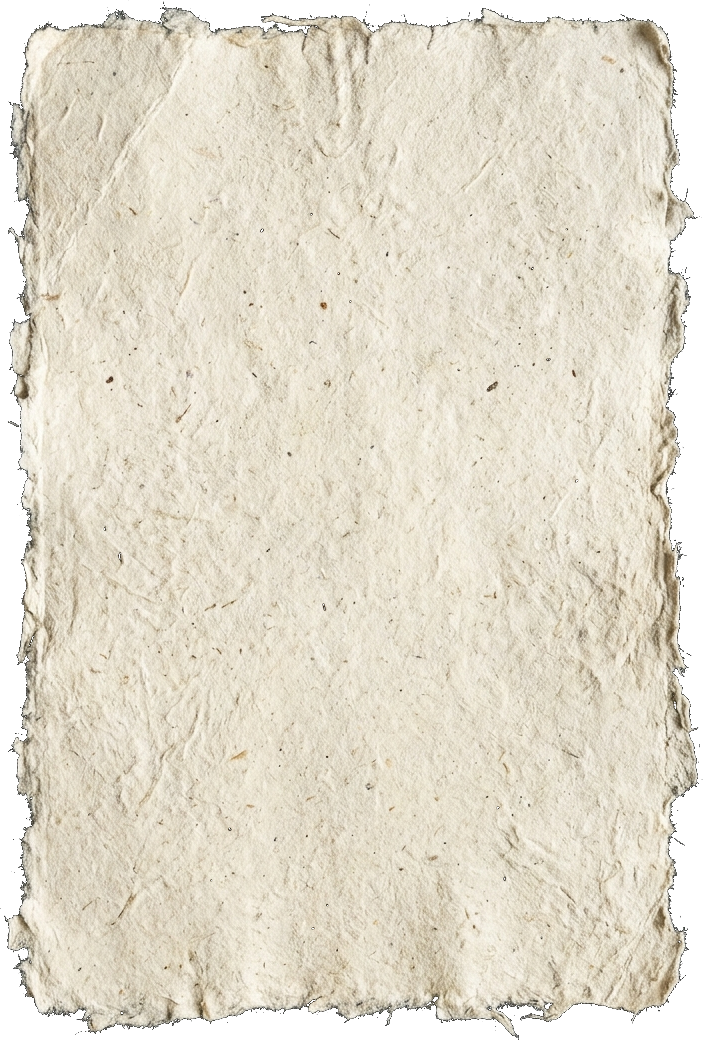
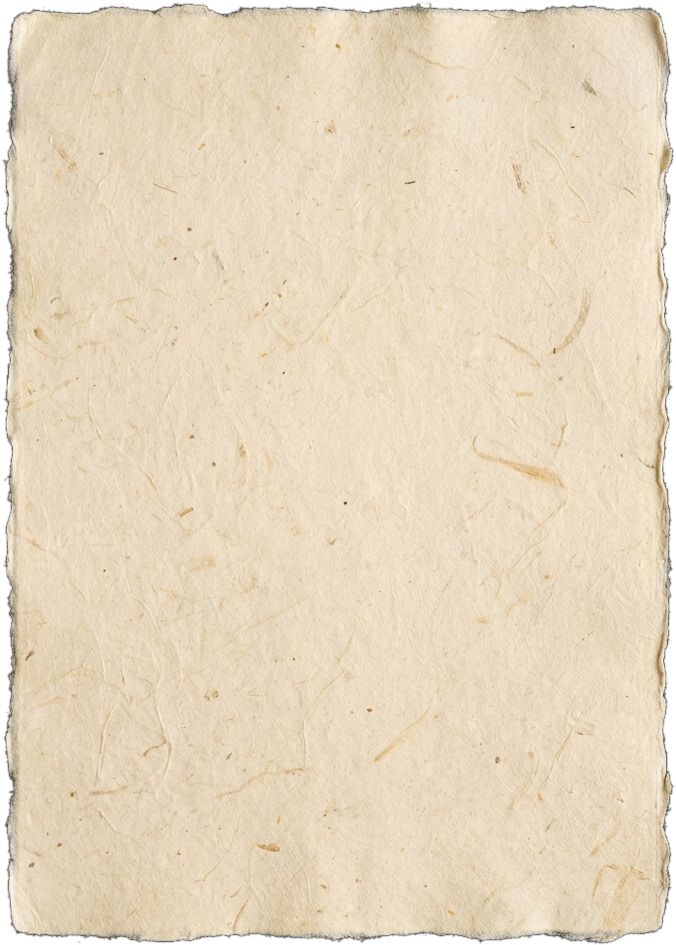
feat(gallery): add Chim Lac Hong motif, remove Viet Phuc badge, and update paper with natural deckled edges and wider margins

diff --git a/src/screens/LookbookScreen.tsx b/src/screens/LookbookScreen.tsx
@@ -19,22 +19,6 @@ import {
 } from 'lucide-react';
 import { getPieceAlignment, getAlignmentStyle } from '../data/pieceAlignments';
 
-/**
- * Imperial Vermilion Red Seal Stamp with double gold border
- */
-const ImperialRedSeal: React.FC<{ className?: string }> = ({ className = 'w-10 h-16' }) => (
-  <div className={`relative flex items-center justify-center bg-gradient-to-b from-[#8B1E1E] via-[#751616] to-[#590e0e] border-[2px] border-[#C69B56] shadow-[0_6px_18px_rgba(139,30,30,0.65)] p-0.5 rounded-none flex-shrink-0 select-none ${className}`}>
-    <div className="w-full h-full border border-[#C69B56]/70 flex flex-col items-center justify-center py-0.5 px-1 bg-black/10">
-      <span className="text-[#F7F4EE] font-serif font-black text-[10px] sm:text-xs leading-tight tracking-widest uppercase">
-        Việt
-      </span>
-      <span className="w-3.5 h-[1px] bg-[#C69B56]/80 my-0.5" />
-      <span className="text-[#F7F4EE] font-serif font-black text-[10px] sm:text-xs leading-tight tracking-widest uppercase">
-        Phục
-      </span>
-    </div>
-  </div>
-);
 
 /**
  * Traditional corner watermark for cards (cherry blossom, cloud, harvest moon, seal)
@@ -246,19 +230,19 @@ const ScrapbookPostcardCard: React.FC<{
           )}
         </div>
 
-        {/* The Authentic Handmade Giấy Dó Paper Canvas using generated torn paper asset */}
-        <div className="relative w-full p-3 sm:p-3.5 pb-4 flex flex-col gap-2 select-none">
-          {/* Real Torn Paper Texture Asset */}
+        {/* The Authentic Handmade Giấy Dó Paper Canvas using delicate deckled paper asset */}
+        <div className="relative w-full px-5 sm:px-6 pt-5 sm:pt-5.5 pb-5 sm:pb-6 flex flex-col gap-2.5 select-none">
+          {/* Real Deckled Paper Texture Asset */}
           <img
-            src="/assets/decorations/torn-paper.png"
-            alt="Giấy Dó xé thủ công"
-            className="absolute inset-0 w-full h-full object-fill pointer-events-none select-none drop-shadow-[0_4px_12px_rgba(0,0,0,0.35)]"
+            src="/assets/decorations/deckled-paper.png"
+            alt="Giấy Dó viền thô tự nhiên"
+            className="absolute inset-0 w-full h-full object-fill pointer-events-none select-none drop-shadow-[0_4px_16px_rgba(0,0,0,0.4)]"
           />
 
-          {/* Inner Content Layer (above paper) */}
-          <div className="relative z-10 flex flex-col gap-2">
-            {/* Inner Photo Frame (Standard 9:16 aspect ratio) */}
-            <div className="relative w-full aspect-[9/16] overflow-hidden bg-black/95 border border-[#2d2216]/60 rounded-xs shadow-inner mt-1">
+          {/* Inner Content Layer (comfortably centered inside deckled paper borders) */}
+          <div className="relative z-10 flex flex-col gap-2.5">
+            {/* Inner Photo Frame (Standard 9:16 aspect ratio with clean border) */}
+            <div className="relative w-full aspect-[9/16] overflow-hidden bg-black/95 border border-[#2d2216]/50 rounded-[2px] shadow-sm">
               {hasAIImage ? (
                 <div className="relative w-full h-full overflow-hidden">
                   <img
@@ -273,11 +257,11 @@ const ScrapbookPostcardCard: React.FC<{
               )}
             </div>
 
-            {/* Bottom Card Footer Area (Inside the Paper) */}
-            <div className="flex flex-col gap-1.5 px-1 pt-0.5">
+            {/* Bottom Card Footer Area (Spaced generously away from paper deckled edges) */}
+            <div className="flex flex-col gap-2 px-1 pt-1">
               {/* Row 1: Timestamp & Favorite Heart Toggle */}
               <div className="flex items-center justify-between">
-                <span className="text-[10px] sm:text-[11px] text-[#4d3c2b] font-mono tracking-wider font-bold">
+                <span className="text-[11px] sm:text-xs text-[#4a3928] font-mono tracking-wider font-bold">
                   {formatCreationDateTime(outfit.createdAt)}
                 </span>
 
@@ -456,31 +440,26 @@ export const LookbookScreen: React.FC<LookbookScreenProps> = ({
         </div>
       )}
 
-      {/* 2. ARTISTIC EDITORIAL HERO HEADER (Outfit placed cleanly below Bộ Sưu Tập) */}
+      {/* 2. ARTISTIC EDITORIAL HERO HEADER (Title without badge, Chim Lac Hong motif next to Outfit) */}
       <div className="relative z-10 w-full px-4 sm:px-8 lg:px-12 pt-7 pb-3">
         <div className="flex flex-col md:flex-row md:items-center justify-between gap-6">
-          {/* Left: Imperial Seal + Title "Bộ Sưu Tập" over "Outfit" + Cloud image asset */}
-          <div className="flex items-center gap-4 sm:gap-5">
-            {/* Vermilion Imperial Red Seal */}
-            <ImperialRedSeal className="w-10 h-16 sm:w-11 sm:h-18" />
+          {/* Left: Title "Bộ Sưu Tập" over "Outfit" + Chim Lạc Hồng Motif */}
+          <div className="flex flex-col">
+            {/* Line 1: Bộ Sưu Tập */}
+            <h1 className="font-serif font-black text-2xl sm:text-3xl lg:text-4xl text-silk-ivory tracking-tight drop-shadow-md leading-none">
+              Bộ Sưu Tập
+            </h1>
 
-            <div className="flex flex-col">
-              {/* Line 1: Bộ Sưu Tập */}
-              <h1 className="font-serif font-black text-2xl sm:text-3xl lg:text-4xl text-silk-ivory tracking-tight drop-shadow-md leading-none">
-                Bộ Sưu Tập
-              </h1>
-
-              {/* Line 2: Outfit + Golden Cloud Asset */}
-              <div className="flex items-center gap-3.5 mt-2">
-                <span className="font-calligraphy text-4xl sm:text-5xl lg:text-6xl text-[#e8c87b] -rotate-2 font-bold drop-shadow-[0_4px_14px_rgba(232,200,123,0.35)] leading-none select-none">
-                  Outfit
-                </span>
-                <img
-                  src="/assets/decorations/golden-cloud.png"
-                  alt="Vân mây cổ phong"
-                  className="h-8 sm:h-10 w-auto object-contain filter drop-shadow-[0_2px_10px_rgba(198,155,86,0.6)] select-none pointer-events-none inline-block"
-                />
-              </div>
+            {/* Line 2: Outfit + Chim Lạc Hồng Motif Asset */}
+            <div className="flex items-center gap-3.5 sm:gap-4 mt-2">
+              <span className="font-calligraphy text-4xl sm:text-5xl lg:text-6xl text-[#e8c87b] -rotate-2 font-bold drop-shadow-[0_4px_14px_rgba(232,200,123,0.35)] leading-none select-none">
+                Outfit
+              </span>
+              <img
+                src="/assets/decorations/chim-lac.png"
+                alt="Họa tiết chim Lạc Hồng"
+                className="h-8 sm:h-10 lg:h-11 w-auto object-contain filter drop-shadow-[0_2px_10px_rgba(175,39,41,0.6)] select-none pointer-events-none inline-block hover:scale-105 transition-transform"
+              />
             </div>
           </div>
 
